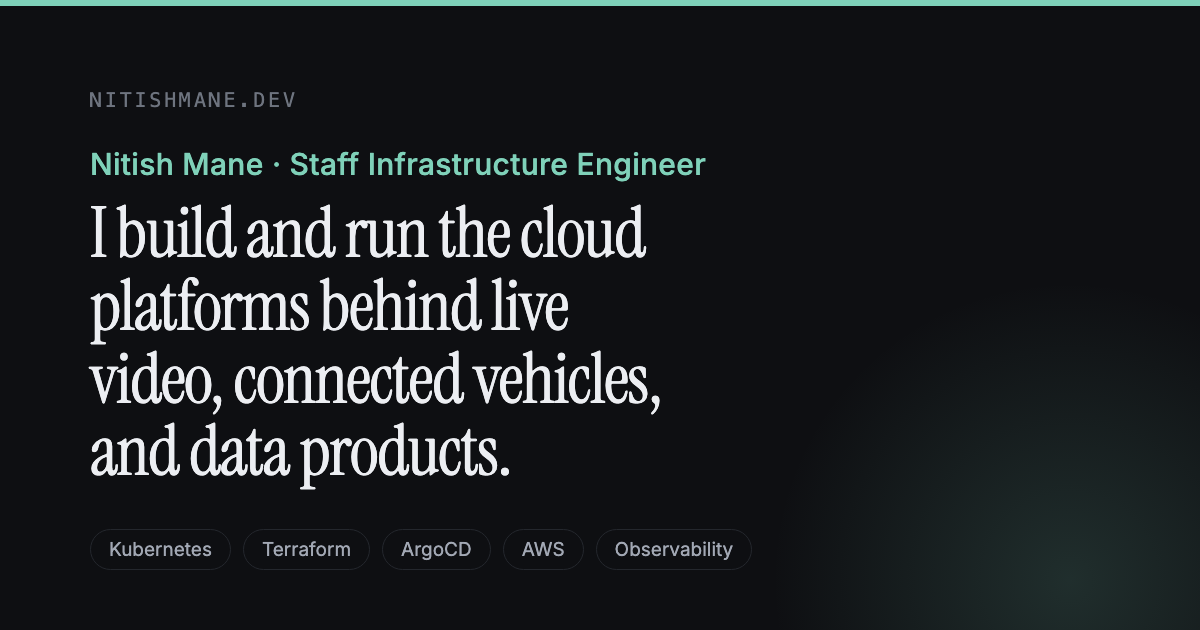
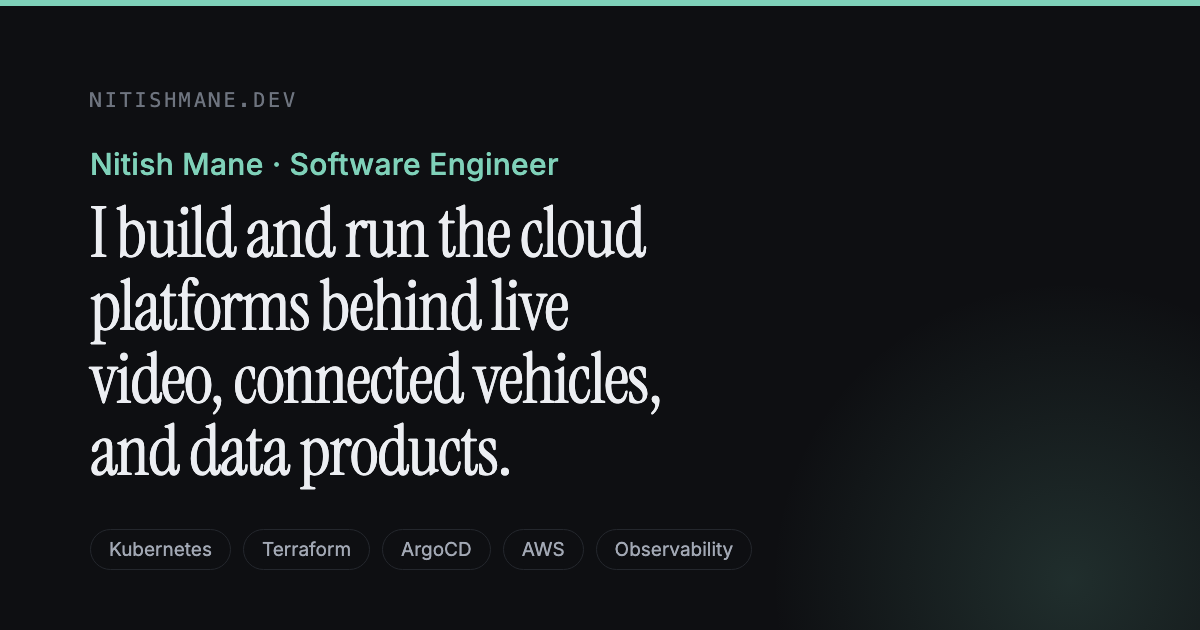
Update title to Software Engineer, add October writing, judging and award details

Changed region(s): [[0.2467, 0.2413, 0.5858, 0.3016]]

diff --git a/index.html b/index.html
@@ -3,14 +3,14 @@
 <head>
 <meta charset="utf-8">
 <meta name="viewport" content="width=device-width, initial-scale=1">
-<title>Nitish Mane · Staff Infrastructure Engineer</title>
+<title>Nitish Mane · Software Engineer</title>
 
 <!-- Canonical host: nitishmane.dev (www redirects to it) -->
-<meta name="description" content="Nitish Mane is a Staff Infrastructure Engineer at Philo. Kubernetes, Terraform, and observability for live video, connected vehicles, and data platforms across AWS, GCP, Azure, and OCI.">
+<meta name="description" content="Nitish Mane is a Software Engineer at Philo. Kubernetes, Terraform, and observability for live video, connected vehicles, and data platforms across AWS, GCP, Azure, and OCI.">
 <link rel="canonical" href="https://nitishmane.dev/">
 <meta property="og:type" content="website">
-<meta property="og:title" content="Nitish Mane · Staff Infrastructure Engineer">
-<meta property="og:description" content="Staff Infrastructure Engineer at Philo. I build and run cloud platforms for live video, connected vehicles, and data products.">
+<meta property="og:title" content="Nitish Mane · Software Engineer">
+<meta property="og:description" content="Software Engineer at Philo. I build and run cloud platforms for live video, connected vehicles, and data products.">
 <meta property="og:url" content="https://nitishmane.dev/">
 <meta property="og:image" content="https://nitishmane.dev/assets/og.png">
 <meta name="twitter:card" content="summary_large_image">
@@ -27,7 +27,7 @@
   "@type": "Person",
   "name": "Nitish Mane",
   "url": "https://nitishmane.dev/",
-  "jobTitle": "Staff Infrastructure Engineer",
+  "jobTitle": "Software Engineer",
   "worksFor": { "@type": "Organization", "name": "Philo" },
   "address": { "@type": "PostalAddress", "addressRegion": "CA", "addressCountry": "US" },
   "sameAs": [
@@ -76,7 +76,7 @@
   <section class="hero">
     <p class="hero__status">
       <span class="status-dot" aria-hidden="true"></span>
-      Staff Infrastructure Engineer at Philo &middot; San Francisco Bay Area
+      Software Engineer at Philo &middot; San Francisco Bay Area
     </p>
     <h1 class="hero__title">Nitish Mane</h1>
     <p class="hero__statement">
@@ -118,8 +118,9 @@
         Lately I have been pointing LLMs at operations work: an agent that correlates ArgoCD,
         Grafana, GitLab, PagerDuty, and Jira to root-cause incidents, and a diagnostic system that
         reasons over vehicle telemetry in a graph database. Outside the day job I judge the CES
-        Innovation Awards and MLH hackathons, speak at infrastructure conferences, and write about
-        what it actually takes to operate platforms under real load.
+        Innovation Awards and MLH hackathons, mentor at AI hackathons, serve as an IEEE Volunteering
+        Ambassador, speak at infrastructure conferences, and write about what it actually takes to
+        operate platforms under real load.
       </p>
     </div>
     <div class="skills reveal">
@@ -167,7 +168,7 @@
       <li class="role reveal">
         <div class="role__when">Mar 2025 – Present<br><span class="role__place">San Francisco, CA</span></div>
         <div class="role__what">
-          <h3 class="role__title">Staff Infrastructure Engineer</h3>
+          <h3 class="role__title">Software Engineer</h3>
           <p class="role__org">Philo</p>
           <ul class="role__points">
             <li>Built <strong>HeyClaude</strong>, an AI SRE agent that debugs production alerts by correlating ArgoCD, Grafana, GitLab, PagerDuty, and Jira, cutting root-cause analysis from <strong>hours to minutes</strong>, behind a fail-closed proxy that keeps Kubernetes Secrets out of its reach.</li>
@@ -408,7 +409,7 @@
       </li>
     </ul>
 
-    <h3 class="work__label reveal">Judging</h3>
+    <h3 class="work__label reveal">Judging &amp; mentoring</h3>
     <ul class="entries reveal">
       <li class="entry">
         <span class="entry__kind">Judge</span>
@@ -430,6 +431,26 @@
         <span class="entry__main">Major League Hacking <span class="entry__meta">Hackathon judge for the world's largest collegiate hackathon league, 150,000+ developers a year</span></span>
         <span class="entry__when"></span>
       </li>
+      <li class="entry">
+        <span class="entry__kind">Judge</span>
+        <span class="entry__main">UAT Fall AI Hackathon <span class="entry__meta">Scored all four finalist projects</span></span>
+        <span class="entry__when">Oct 2026</span>
+      </li>
+      <li class="entry">
+        <span class="entry__kind">Judge</span>
+        <span class="entry__main">Decision Grade AI Buildathon</span>
+        <span class="entry__when">Oct 2026</span>
+      </li>
+      <li class="entry">
+        <span class="entry__kind">Judge</span>
+        <span class="entry__main">WeMakeDevs Hackathon <span class="entry__meta">San Francisco</span></span>
+        <span class="entry__when">Oct 2026</span>
+      </li>
+      <li class="entry">
+        <span class="entry__kind">Mentor</span>
+        <span class="entry__main">GenAI.Works Open Agent Hackathon 2026 <span class="entry__meta">Online, worldwide</span></span>
+        <span class="entry__when">Oct 2026</span>
+      </li>
     </ul>
 
     <h3 class="work__label reveal">Writing, media &amp; awards</h3>
@@ -438,6 +459,26 @@
         <span class="entry__kind">Article</span>
         <span class="entry__main"><a href="https://platformengineering.com/features/invisible-by-design-what-it-takes-to-operate-platforms-under-real-load/">“Invisible by Design: What It Takes to Operate Platforms Under Real Load”</a> <span class="entry__meta">Platform Engineering</span></span>
         <span class="entry__when">Mar 2026</span>
+      </li>
+      <li class="entry">
+        <span class="entry__kind">Article</span>
+        <span class="entry__main"><a href="https://platformengineering.com/features/10-real-use-cases-for-mcp-in-platform-engineering-and-the-guardrails-that-make-them-safe/">“10 Real Use Cases for MCP in Platform Engineering (and the Guardrails That Make Them Safe)”</a> <span class="entry__meta">Platform Engineering</span></span>
+        <span class="entry__when">Oct 2026</span>
+      </li>
+      <li class="entry">
+        <span class="entry__kind">Article</span>
+        <span class="entry__main"><a href="https://platformengineering.com/features/what-ubers-800-server-mcp-gateway-means-for-platform-teams/">“What Uber's 800-Server MCP Gateway Means for Platform Teams”</a> <span class="entry__meta">Platform Engineering</span></span>
+        <span class="entry__when">Oct 2026</span>
+      </li>
+      <li class="entry">
+        <span class="entry__kind">Article</span>
+        <span class="entry__main"><a href="https://cloudnativenow.com/contributed-content/put-the-agent-in-a-box-running-claude-code-in-a-container/">“Put the Agent in a Box: Running Claude Code in a Container”</a> <span class="entry__meta">Cloud Native Now</span></span>
+        <span class="entry__when">Oct 2026</span>
+      </li>
+      <li class="entry">
+        <span class="entry__kind">Article</span>
+        <span class="entry__main"><a href="https://platformengineering.com/features/attackers-have-found-mcp-what-platform-teams-should-do-about-it/">“Attackers Have Found MCP. What Platform Teams Should Do About It”</a> <span class="entry__meta">Platform Engineering</span></span>
+        <span class="entry__when">Oct 2026</span>
       </li>
       <li class="entry">
         <span class="entry__kind">Interview</span>
@@ -451,8 +492,8 @@
       </li>
       <li class="entry">
         <span class="entry__kind">Award</span>
-        <span class="entry__main"><a href="https://luma.com/zero-downtime">Zero Downtime Hackathon</a> <span class="entry__meta">First prize</span></span>
-        <span class="entry__when"></span>
+        <span class="entry__main"><a href="https://luma.com/zero-downtime">Zero Downtime Hackathon</a> <span class="entry__meta">Grand Prize and Best Full-Stack Integration, solo, San Francisco. Hosted by WeMakeDevs with Port, Bright Data, and SigNoz. Won an NVIDIA DGX Spark for <a href="#work">Scraper Factory</a>. <a href="https://dev.to/nitish_mane_2c399ba312e53/i-built-scrapers-that-heal-themselves-and-won-an-nvidia-dgx-spark-45g8">Read the write-up</a></span></span>
+        <span class="entry__when">Aug 2026</span>
       </li>
     </ul>
   </section>

diff --git a/.tools/og-image.html b/.tools/og-image.html
@@ -44,7 +44,7 @@
 <div class="rule"></div>
 <div class="glow"></div>
 <div class="domain">nitishmane.dev</div>
-<div class="name">Nitish Mane · Staff Infrastructure Engineer</div>
+<div class="name">Nitish Mane · Software Engineer</div>
 <h1>I build and run the cloud platforms behind live video, connected vehicles, and data products.</h1>
 <div class="tags">
   <span>Kubernetes</span><span>Terraform</span><span>ArgoCD</span><span>AWS</span><span>Observability</span>
